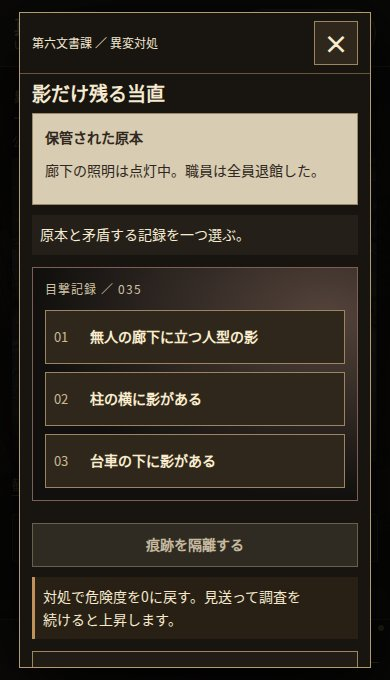
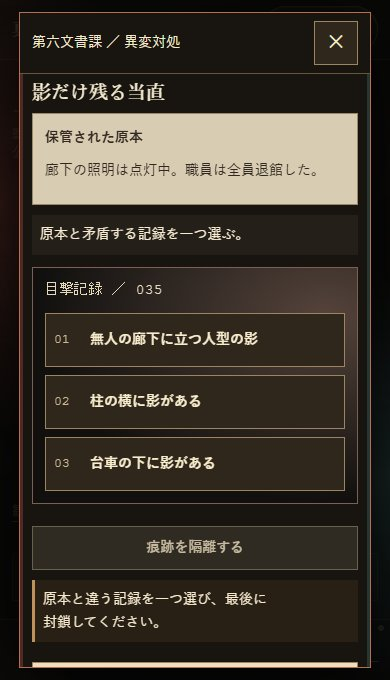
Improve incursion evidence reading on phones (#250)

diff --git a/assets/incursions.css b/assets/incursions.css
@@ -1,5 +1,5 @@
 /* Suspense stays at the screen edge; no full-screen tint over readable content. */
-#incursion-status { display:block; width:100%; max-width:640px; min-height:44px; margin:auto; padding:8px 14px; border-top:1px solid #67523c; background:#191710; color:#f4e4c8; text-align:left; font:700 13px/1.5 var(--f-body); }
+#incursion-status { display:block; width:100%; max-width:640px; min-height:44px; margin:auto; padding:8px 14px; border-top:1px solid #67523c; background:#191710; color:#f4e4c8; text-align:left; font:700 14px/1.5 var(--f-body); }
 body[data-incursion='noticed'] #incursion-status { background:#3f2118; }
 body[data-incursion='close'] #incursion-status,body[data-incursion='breach'] #incursion-status { background:#641f18; color:#fff0d4; border-left:5px solid #efb75f; }
 body[data-incursion='calm'] #incursion-status { border-left:4px solid #9ab59a; }
@@ -13,7 +13,7 @@ body[data-incursion='close']:not(.incursion-quiet) .radar-grid::after,body[data-
 #incursion-dialog button { min-height:44px; border:1px solid #9d8561; padding:8px; background:#30271c; color:#f9edce; font:700 14px/1.5 var(--f-body); }
 #incursion-dialog button[aria-pressed='true'] { background:#eddfbe; color:#302214; }
 #incursion-dialog button:disabled { background:#28251f; color:#c1b5a0; border-color:#67604e; cursor:default; }
-.inc-heading { display:flex; justify-content:space-between; align-items:center; gap:10px; font-size:12px; }
+.inc-heading { display:flex; justify-content:space-between; align-items:center; gap:10px; font-size:14px; }
 #incursion-dialog .inc-heading button { min-width:44px; font-size:24px; line-height:1; }
 .inc-meter { display:flex; align-items:center; gap:12px; font-size:13px; margin:12px 0; }
 .inc-meter meter { flex:1; width:0; height:14px; accent-color:#ce5b42; }
@@ -27,7 +27,7 @@ body[data-incursion='close']:not(.incursion-quiet) .radar-grid::after,body[data-
 .inc-feedback { border-left:3px solid #c0915b; padding:8px; color:#f6e9ce; background:#282015; }
 .inc-radio { height:110px; background:linear-gradient(#13140cf0,#12140fdc),url('ui/audio-analyzer-clean.webp') center/cover; border:1px solid #827654; display:flex; gap:12px; align-items:center; justify-content:center; flex-wrap:wrap; padding:14px; }
 .inc-radio i { width:15px; height:15px; border-radius:50%; background:#8ea777; box-shadow:0 0 12px #8ea77766; }.inc-radio i:nth-child(2) { background:#e57556; box-shadow:0 0 15px #e5755666; }.inc-radio span { flex-basis:100%; text-align:center; font:700 14px var(--f-mono); }
-.inc-channels { display:grid; gap:8px; }.inc-channels button { display:flex; justify-content:space-between; align-items:center; gap:8px; }.inc-channels small { font-size:12px; }
+.inc-channels { display:grid; gap:8px; }.inc-channels button { display:flex; justify-content:space-between; align-items:center; gap:8px; }.inc-channels small { font-size:14px; }
 .inc-envelope { padding:18px 12px; background:#e9d9b9 url('intro/witness-note.webp') center/cover; color:#302114; }.inc-envelope>span,.inc-envelope>p { background:#f1e4c8; padding:5px; font-weight:700; }
 .inc-seals { display:grid; grid-template-columns:repeat(3,minmax(0,1fr)); gap:10px; }#incursion-dialog .inc-seals button { display:grid; gap:8px; border:2px solid #893124; color:#6c211a; background:#f2e2c0; min-height:90px; }#incursion-dialog .inc-seals button:disabled { background:#7b281e; color:#fff0d0; }
 .inc-seals b { font-size:23px; }.inc-settled { padding:18px; background:#20291f; border:1px solid #9caf8d; }.inc-settled strong { display:block; font-size:26px; margin-top:8px; }
@@ -59,7 +59,7 @@ body[data-incursion='close']:not(.incursion-quiet) .radar-grid::after,body[data-
 
 /* Evidence behaves like the source material, with stable readable text. */
 .inc-experience{padding:12px;border:1px solid #6e624d;background:#11120f;margin:12px 0;overflow:hidden}
-.inc-material{font:12px/1.5 var(--f-mono);letter-spacing:.08em;color:#d1c3a5}
+.inc-material{font:14px/1.5 var(--f-mono);letter-spacing:.04em;color:#e6d8bb;overflow-wrap:anywhere}
 .inc-experience .inc-records{margin-bottom:0}
 #incursion-dialog .inc-records button{display:flex;align-items:center;gap:12px;min-height:54px;width:100%;overflow-wrap:anywhere}
 .inc-record-number{flex:0 0 24px;color:#cbb993;font:13px var(--f-mono)}
@@ -81,12 +81,12 @@ body[data-incursion='close']:not(.incursion-quiet) .radar-grid::after,body[data-
 .inc-experience-memory .inc-records button{border-style:dashed}
 .inc-experience-presence{background:radial-gradient(ellipse at 50% 110%,#542f21,#070807 75%);border-color:#744a38}
 .inc-experience-presence .inc-records button{background:#201912;border-color:#654334}
-.inc-selected{border-left:3px solid #976843;padding:8px 12px;background:#201a15;margin-top:10px}.inc-selected>span{font-size:12px;color:#c9b99c}
+.inc-selected{border-left:3px solid #976843;padding:8px 12px;background:#201a15;margin-top:10px}.inc-selected>span{font-size:14px;color:#e3d2b3}
 .inc-procedure{display:grid;gap:8px}.inc-procedure button{text-align:left}
 #incursion-dialog .inc-contact-photo{display:block;padding:0;width:100%;overflow:hidden;background:#080807;touch-action:none}
 .inc-contact-photo img{display:block;width:100%;height:auto;pointer-events:none}
 #incursion-dialog .inc-contact-trace{display:block;width:100%;margin-top:10px;min-height:64px;background:linear-gradient(#392c25,#17130f);border-color:#8b6350;box-shadow:inset 0 0 24px #9b694a22}
-.inc-contact-trace small{display:block;margin-top:8px;color:#d6c4a6;font-size:12px}
+.inc-contact-trace small{display:block;margin-top:8px;color:#e3d2b3;font-size:14px}
 #incursion-dialog:has(.inc-experience),#incursion-dialog:has(.inc-selected){scroll-padding-bottom:16px}
 #incursion-dialog:has(.inc-experience) :is(.inc-meter,.inc-tier),#incursion-dialog:has(.inc-selected) :is(.inc-meter,.inc-tier){display:none}
 
@@ -114,7 +114,7 @@ body[data-incursion='close']:not(.incursion-quiet) .radar-grid::after,body[data-
 .inc-record-list strong{font-size:14px;overflow-wrap:anywhere}.inc-record-list span{color:#c9b99c}
 .inc-record-photo{margin:12px 0;background:#0c0c0a}
 .inc-record-photo img{display:block;width:100%;max-height:38dvh;object-fit:contain}
-.inc-record-photo figcaption{font-size:12px;padding:8px;color:#c9b99c}
+.inc-record-photo figcaption{font-size:14px;line-height:1.5;padding:8px;color:#e3d2b3}
 .inc-record-aftermath{padding:12px 0}.inc-record-aftermath h3{font-size:14px;margin:0}
 #incursion-dialog.inc-record-mode{height:min(720px,calc(100dvh - 24px));display:grid;grid-template-rows:auto auto minmax(0,1fr) auto;overflow:hidden}
 #incursion-dialog.inc-record-mode:not([open]){display:none}
@@ -132,5 +132,5 @@ body:is([data-incursion='noticed'],[data-incursion='close'],[data-incursion='bre
 body:is([data-incursion='close'],[data-incursion='breach']):not(.incursion-quiet):not(.watch-mind-quiet) #watch-veil{box-shadow:inset 10px 0 42px #8f332d99,inset -10px 0 42px #387c7977}
 body:has(#incursion-dialog.inc-record-mode[open]) #watch-veil{display:none}
 @media(prefers-reduced-motion:reduce){.inc-case-photo::before{animation:none!important;filter:none!important}}
-.inc-rarity{display:block;margin-top:4px;font:12px/1.5 var(--f-mono);color:#c9b99c}
+.inc-rarity{display:block;margin-top:4px;font:14px/1.5 var(--f-mono);color:#e3d2b3}
 .inc-witness-copy{margin:22px 0;padding-left:12px;border-left:2px solid #806a4e;font-size:16px;line-height:1.9;color:#eee3cf}

diff --git a/docs/CURRENT-SPEC.md b/docs/CURRENT-SPEC.md
@@ -59,6 +59,7 @@
 - 封筒からの侵入事件は固定ID **100種**、レアリティ重み **N/R/SR/SSR = 60/28/10/2**。進行中の事件・種別IDはセーブと図鑑と共有するため、意味を変えず追記する。
 - 封筒の調査操作に応じて侵入レベルが上がる。無操作中には増えない。閾値100では新規開封を一時停止し、pt・資料・報酬は奪わない。対処後の保護開封を尊重する。
 - 発見／異変位置での接触／回線遮断／証言比較／封印など、種類に応じた手順で明示的に完了する。完了報酬は一度きり。低刺激モードでは刺激表現だけを抑える。
+- 侵入調査の媒体名・選択済み証拠・痕跡操作の補助文と、保管記録の写真注記・レアリティは、暗い面でも14px以上で表示する。長い文字は折り返し、狭幅や短い横画面でも完了操作へスクロールで届く。判定・保存・報酬は表示調整で変えない。
 - 課員は白瀬（記録係）、榊（設備担当）、三輪（先輩調査員）。最初の挨拶と話題ごとの返答、会話履歴、回復クールダウンは保存。会話だけで無限回復やポイントを稼がせない。
 - 課内地位は RANK 1〜3／4〜6／7〜10／11〜14／15〜17／18〜20 の6区分。上位になるほど記録の矛盾が深まるが、既存の観測抽選を直接増加させない。
 - RANK 4/7/11/15/18では三人から人事の矛盾を収集できる。実際に聴いた証言のみ人物図鑑へ出し、三者の照合で一度だけ確定・受信箱へ通知。未入手の証言・結論は表示しない。

diff --git a/docs/EXPERIENCE-DESIGN.md b/docs/EXPERIENCE-DESIGN.md
@@ -54,6 +54,8 @@
 
 取得済み図鑑のカードは番号・名称・出典を横に詰め込まず、同じ読み順で縦に見渡せるようにする。補助文字も手がかりとして読める大きさと明るさを保ち、狭い画面では行高を増やしてよい。
 
+侵入調査と保管記録でも、媒体名・選んだ手掛かり・写真の注記を飾り扱いしない。暗い画面の補助文字は14px以上と明るい色を基準にし、短い画面では内容を縮めるよりスクロールして読み、対処ボタンまで到達できるようにする。
+
 課内会話：1人の肖像、誰が話しているか、質問、返答、別の話題。小さなテキスト行間を削って詰め込まない。三者照合は明示操作であり、会話を開いただけで報酬にしない。
 
 ## 4. ホラーの基本手法（再利用可）
